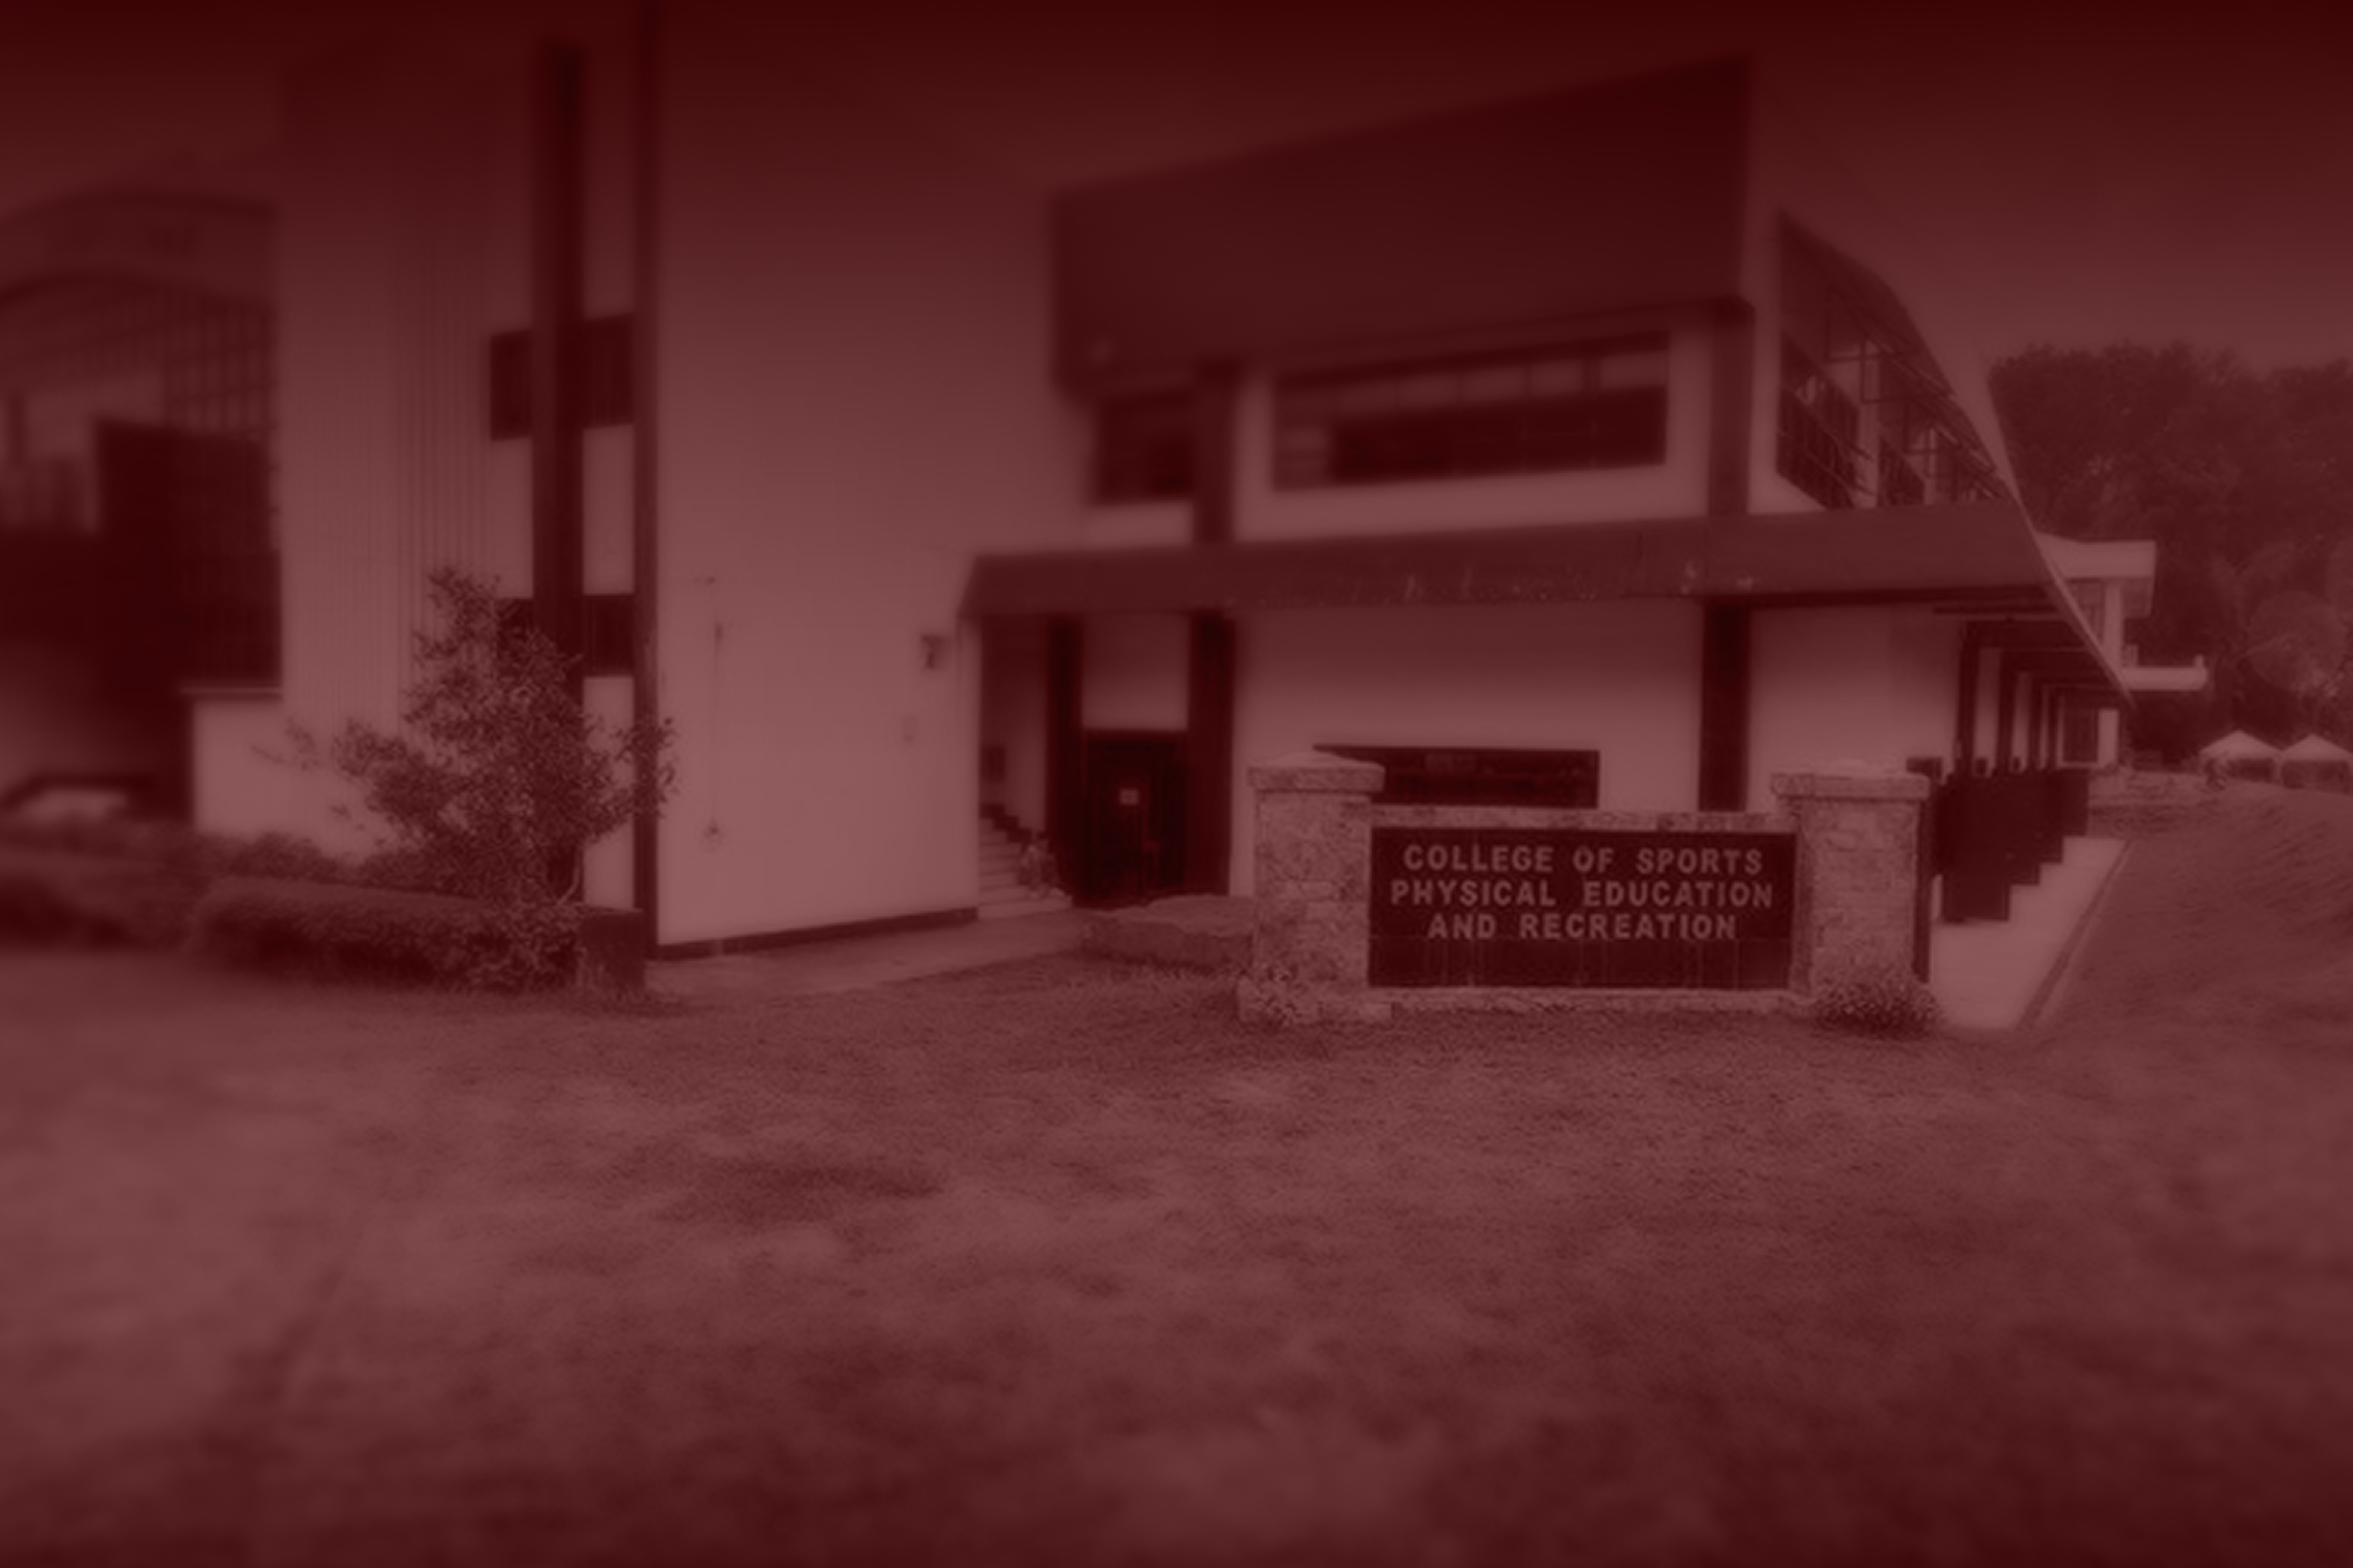
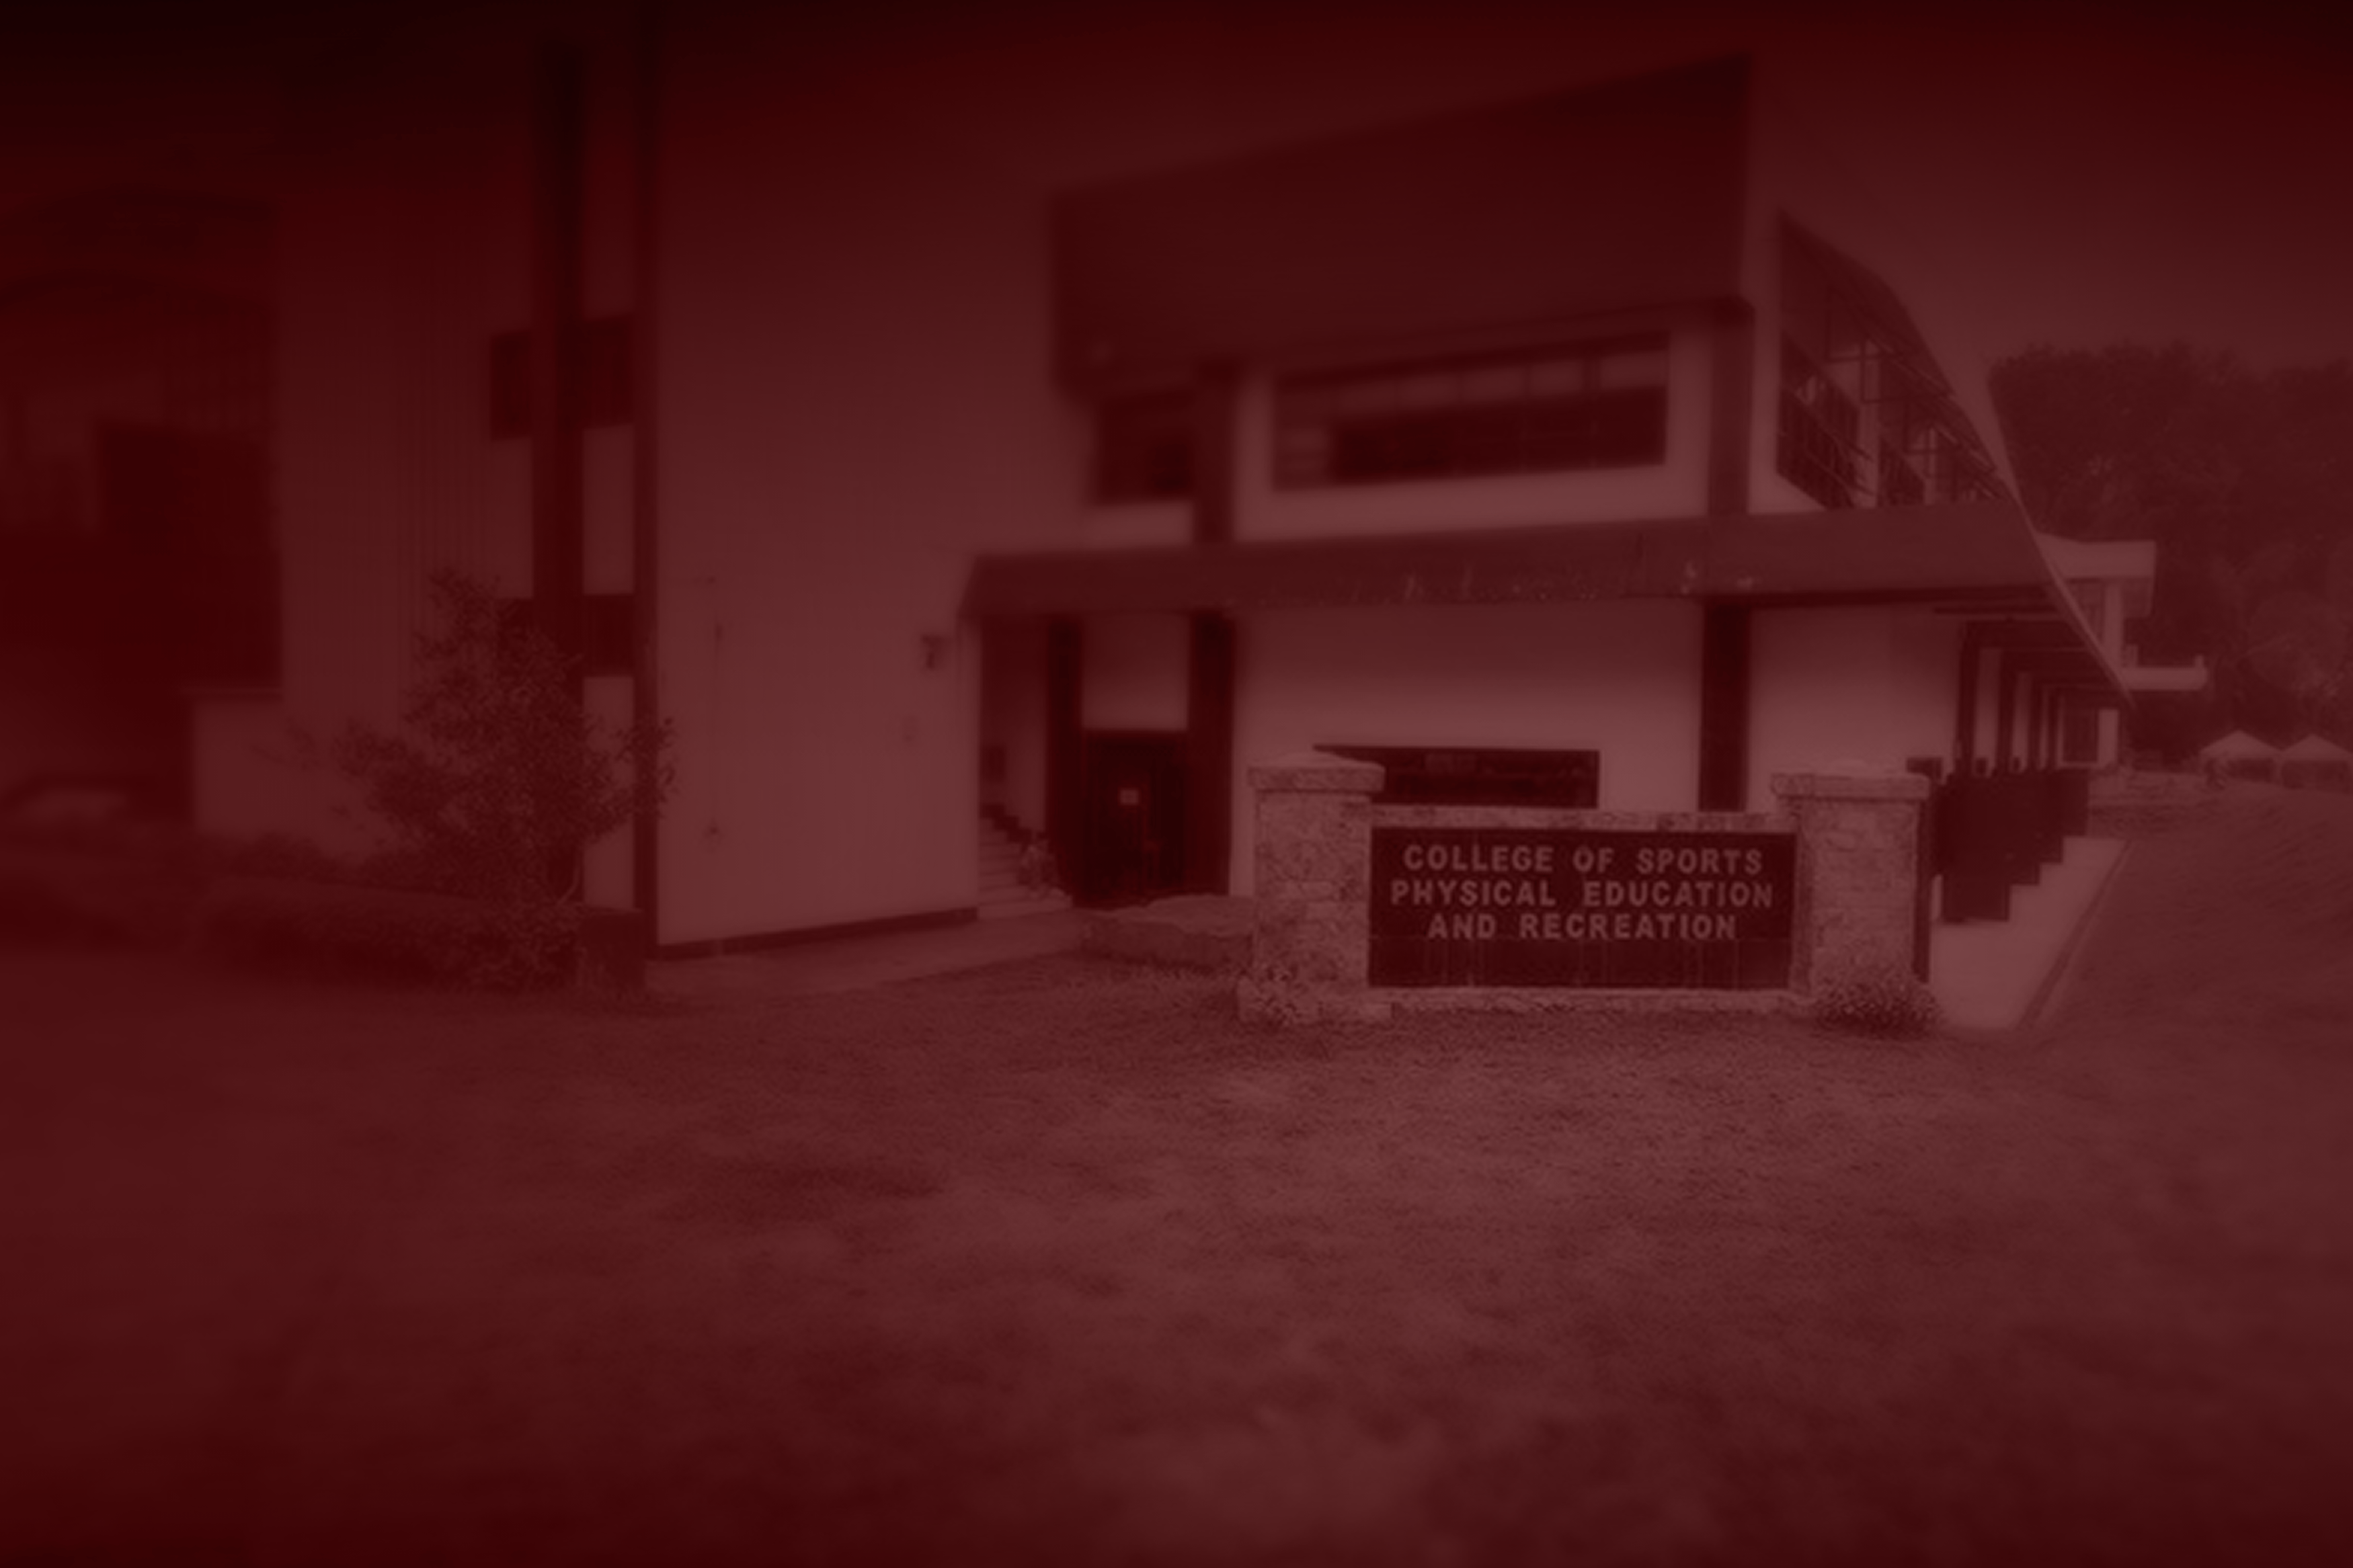
collect static

diff --git a/staticfiles/css/cspear_view.css b/staticfiles/css/cspear_view.css
@@ -31,7 +31,7 @@ button.accordion-button.collapsed {
 }
 .bg-body-tertiary {
     --bs-bg-opacity: 1;
-    background-color: #842B2B !important;
+    background-color: #440808CC !important;
     margin-bottom: 1.2vh;
 
 }
@@ -149,6 +149,22 @@ p{
     background-color:#ffffff00;
     box-shadow: inset 0 calc(-1* var(--bs-accordion-border-width)) 0 white;
 }
+.btn-outline-success {
+    --bs-btn-color: #fff !important;
+    --bs-btn-border-color: #19875400 !important;
+    --bs-btn-hover-color: #fff !important;
+    --bs-btn-hover-bg: #19875400 !important;
+    --bs-btn-hover-border-color: #fff !important;
+    --bs-btn-focus-shadow-rgb: 25,135,84;
+    --bs-btn-active-color: #fff !important;
+    --bs-btn-active-bg: #fff0 !important;
+    --bs-btn-active-border-color: #19875400 !important;
+    --bs-btn-active-shadow: inset 0 3px 5px rgba(0, 0, 0, 0.125) !important;
+    --bs-btn-disabled-color: #19875400 !important;
+    --bs-btn-disabled-bg: transparent !important;
+    --bs-btn-disabled-border-color: #19875400 !important;
+    --bs-gradient: none !important;
+  }
 
 @media (max-width: 768px) {
     .courses {

diff --git a/staticfiles/css/cas.css b/staticfiles/css/cas.css
@@ -130,11 +130,8 @@ label:hover {
     height: fit-content;
 }
 .sideshow {
-    width: 500px;
-    height: inherit !important;
-    margin-left: 12vw;
-    border-radius: 10px;
     margin-top: 4vh;
+    align-self: center;
 }
 .carousel {
     position: relative;
@@ -158,11 +155,21 @@ button {
     border-radius: 10px !important;
     background-color: #fff75d;
 }
+@media (min-width: 300px) {
+    .carousel-caption.d-none.d-md-block {
+        display: block !important;
+    }
+}
+@media (max-width: 1440px) and (min-width: 700px) {
+    .sideshow {
+        margin-top: 10vh;
+    }
+}
 @media (max-width: 1200px) {
     .carousel{
-        left: -10vw;
         top: -15vh;
         transform: scale(0.7);
+        display: grid;
     }
     .allcontent{
         flex-direction: column;
@@ -171,7 +178,7 @@ button {
         display: flow;
     }
     .questions{
-        width: 100vw;
+        width: 80vw;
         margin-left: 10vw;
         margin-right: 10vw;
     }

diff --git a/staticfiles/css/cas_view.css b/staticfiles/css/cas_view.css
@@ -149,6 +149,22 @@ p{
     background-color: #18181800;
     box-shadow: inset 0 calc(-1* var(--bs-accordion-border-width)) 0 #eaff00;
 }
+.btn-outline-success {
+    --bs-btn-color: yellow !important;
+    --bs-btn-border-color: #0000 !important;
+    --bs-btn-hover-color: yellow !important;
+    --bs-btn-hover-bg: #19875400 !important;
+    --bs-btn-hover-border-color: yellow !important;
+    --bs-btn-focus-shadow-rgb: 25,135,84 !important;
+    --bs-btn-active-color: #fff !important;
+    --bs-btn-active-bg: yellow !important;
+    --bs-btn-active-border-color: yellow !important;
+    --bs-btn-active-shadow: inset 0 3px 5px rgba(0, 0, 0, 0.125) !important;
+    --bs-btn-disabled-color: yellow !important;
+    --bs-btn-disabled-bg: transparent !important;
+    --bs-btn-disabled-border-color: yellow !important;
+    --bs-gradient: none !important;
+}
 
 @media (max-width: 768px) {
     .courses {
